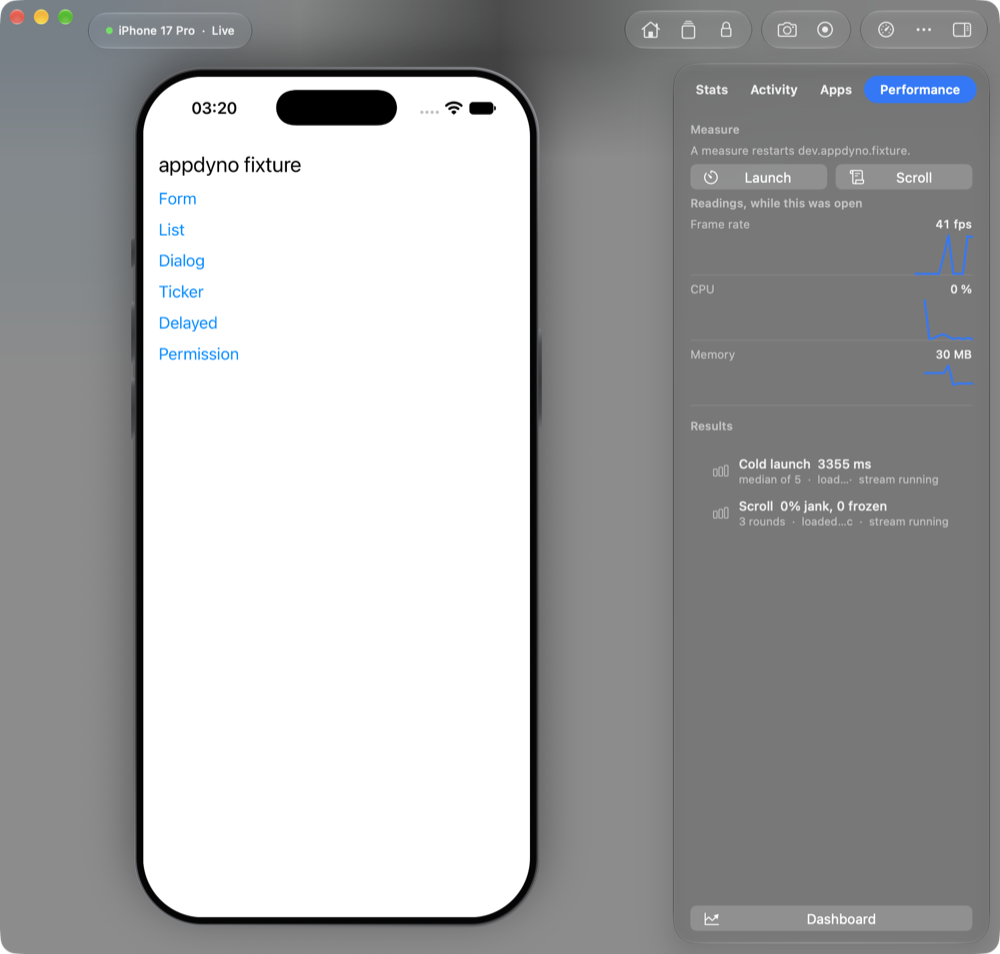
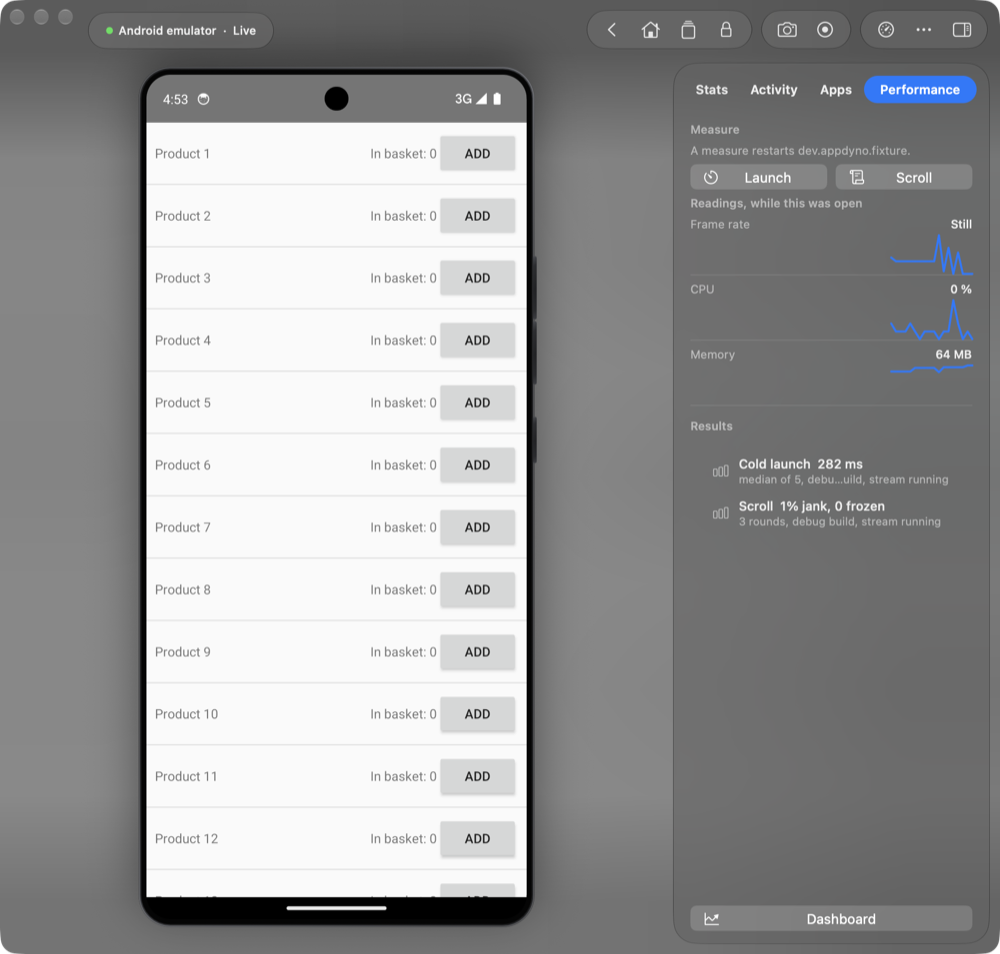
docs: real pictures on real screens
A real phone on a screen with content, measures taken on a quiet Mac, and Settings on an iPad.

diff --git a/README.md b/README.md
@@ -152,10 +152,10 @@ With `symbols`, it names the stack of a release build. On iOS that is a `.dSYM`,
 
 <p>
   <img src="docs/images/window-numbers.png" width="49%" alt="A window on a real Xiaomi phone, with its frame rate, jank, frozen frames, CPU, memory and network beside it, each read from the device">
-  <img src="docs/images/window-performance.png" width="49%" alt="A window on a simulator with the Performance pane open: readings over time, and a cold launch and a scroll measured for real">
+  <img src="docs/images/window-performance.png" width="49%" alt="A window on an Android emulator with the Performance pane open: readings over time, and a cold launch and a scroll measured for real">
 </p>
 <p>
-  <img src="docs/images/window-ipad.png" width="49%" alt="A window on a simulated iPad on its side, in a frame drawn in code">
+  <img src="docs/images/window-ipad.png" width="49%" alt="A window on a simulated iPad on its side, showing Settings, in a frame drawn in code">
   <img src="docs/images/dashboard.png" width="49%" alt="The dashboard of a kept app: what needs attention, measures by device, and trends">
 </p>
 
